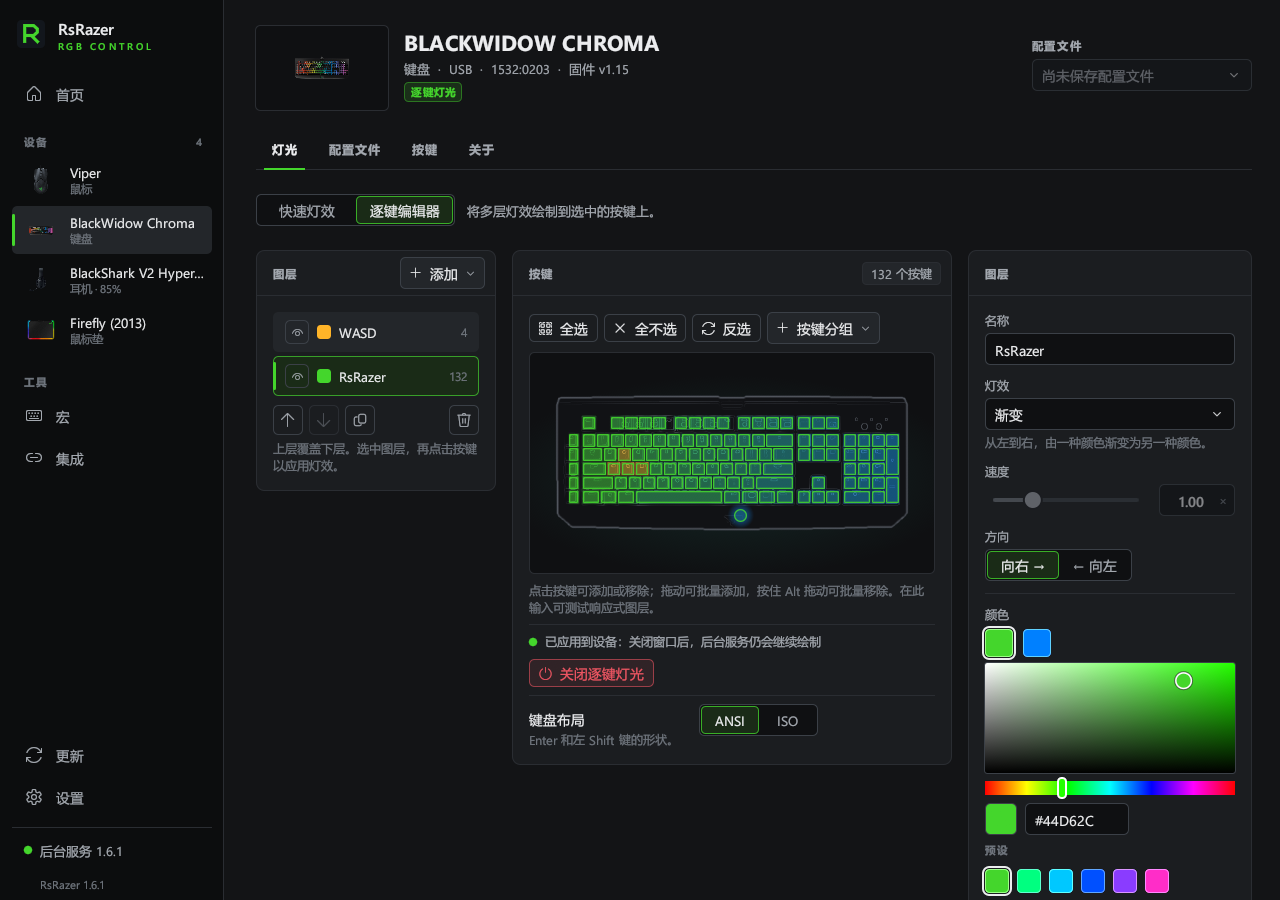
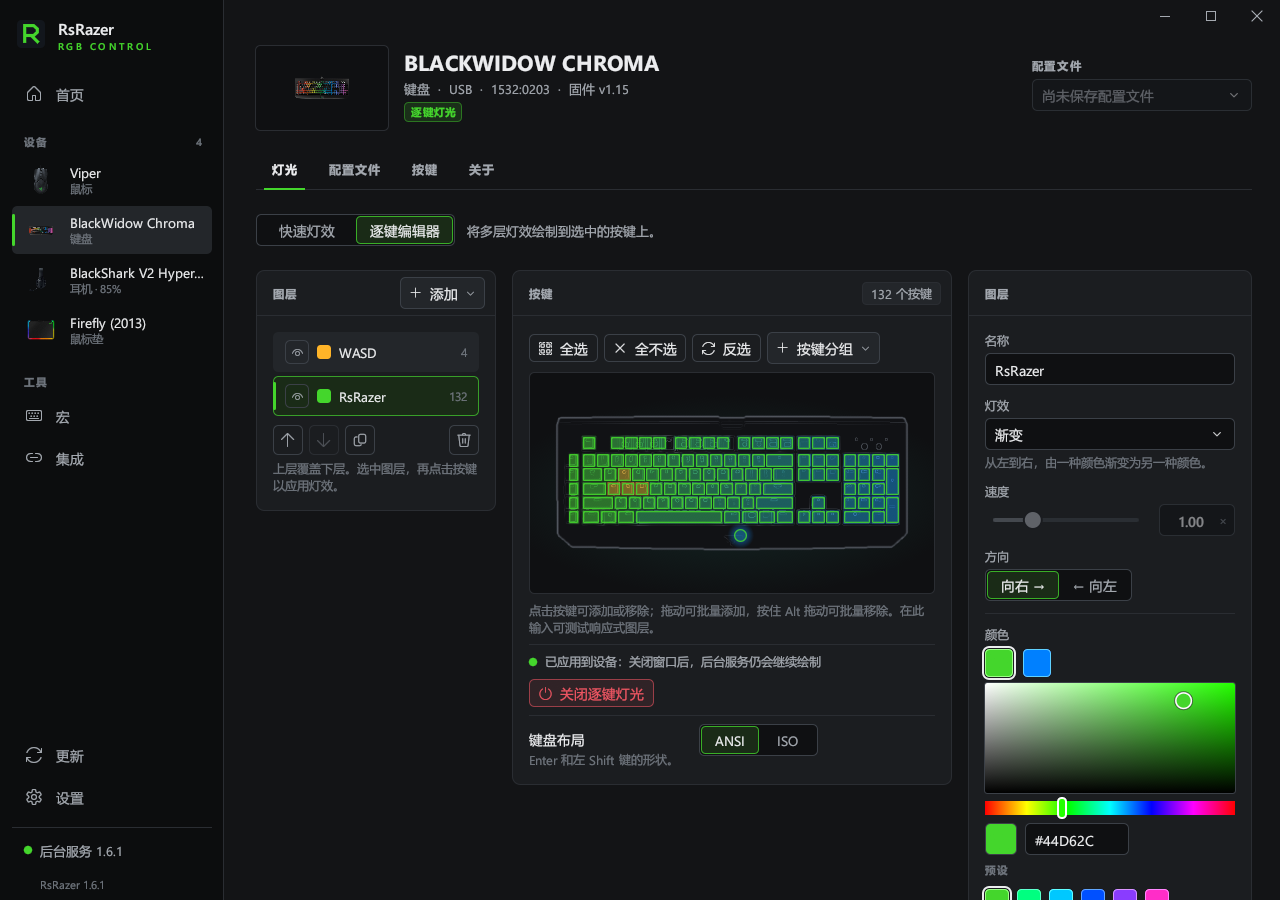
Integrate window controls into the dark interface

diff --git a/studio/core/src/window.rs b/studio/core/src/window.rs
@@ -1,0 +1,82 @@
+//! Native dragging and edge resizing for the integrated window controls.
+
+use crate::{chrome, theme::BORDER};
+use raw_window_handle::{HasWindowHandle, RawWindowHandle};
+use windows_sys::Win32::{
+    Foundation::{HWND, LPARAM, LRESULT, POINT, RECT, WPARAM},
+    Graphics::{Dwm::{DwmSetWindowAttribute, DWMWA_BORDER_COLOR, DWMWA_USE_IMMERSIVE_DARK_MODE, DWMWA_WINDOW_CORNER_PREFERENCE, DWMWCP_ROUND}, Gdi::ScreenToClient},
+    UI::{HiDpi::GetDpiForWindow, Shell::{DefSubclassProc, RemoveWindowSubclass, SetWindowSubclass}, WindowsAndMessaging::*},
+};
+
+const SUBCLASS: usize = 0x52535A52;
+
+fn hwnd(window: &impl HasWindowHandle) -> Option<HWND> {
+    let handle = window.window_handle().ok()?;
+    let RawWindowHandle::Win32(handle) = handle.as_raw() else { return None };
+    Some(handle.hwnd.get() as HWND)
+}
+
+/// Fall back to a decorated window if subclassing is unavailable.
+pub fn install(window: &impl HasWindowHandle, resizable: bool) -> bool {
+    let Some(hwnd) = hwnd(window) else { return false };
+    let border = u32::from(BORDER.r()) | (u32::from(BORDER.g()) << 8) | (u32::from(BORDER.b()) << 16);
+    // All calls run on the window's owning UI thread; DWM copies these values.
+    unsafe {
+        for (attribute, value) in [(DWMWA_USE_IMMERSIVE_DARK_MODE, 1_u32), (DWMWA_BORDER_COLOR, border), (DWMWA_WINDOW_CORNER_PREFERENCE, DWMWCP_ROUND as u32)] {
+            DwmSetWindowAttribute(hwnd, attribute as u32, (&value as *const u32).cast(), size_of::<u32>() as u32);
+        }
+        let scale = GetDpiForWindow(hwnd).max(96) as f32 / 96.0;
+        SetWindowSubclass(hwnd, Some(window_proc), SUBCLASS, data(scale, resizable)) != 0
+    }
+}
+
+/// Keep native hit testing aligned with both monitor DPI and egui zoom.
+pub fn sync(window: &impl HasWindowHandle, scale: f32, resizable: bool) {
+    if let Some(hwnd) = hwnd(window) {
+        unsafe { SetWindowSubclass(hwnd, Some(window_proc), SUBCLASS, data(scale, resizable)); }
+    }
+}
+
+fn data(scale: f32, resizable: bool) -> usize {
+    (((scale.clamp(0.25, 16.0) * 1024.0).round() as usize) << 1) | usize::from(resizable)
+}
+
+unsafe extern "system" fn window_proc(hwnd: HWND, message: u32, wparam: WPARAM, lparam: LPARAM, id: usize, data: usize) -> LRESULT {
+    if message == WM_NCDESTROY {
+        RemoveWindowSubclass(hwnd, Some(window_proc), id);
+    } else if message == WM_NCHITTEST {
+        // LPARAM coordinates are signed, including monitors left/above the primary.
+        let mut point = POINT { x: lparam as i16 as i32, y: (lparam >> 16) as i16 as i32 };
+        let mut rect: RECT = std::mem::zeroed();
+        if ScreenToClient(hwnd, &mut point) != 0 && GetClientRect(hwnd, &mut rect) != 0 {
+            let scale = (data >> 1) as f32 / 1024.0;
+            let resizable = data & 1 != 0;
+            let edge = (6.0 * scale).round() as i32;
+            if resizable && IsZoomed(hwnd) == 0 {
+                let left = point.x < edge;
+                let right = point.x >= rect.right - edge;
+                let top = point.y < edge;
+                let bottom = point.y >= rect.bottom - edge;
+                let hit = match (left, right, top, bottom) {
+                    (true, _, true, _) => HTTOPLEFT,
+                    (_, true, true, _) => HTTOPRIGHT,
+                    (true, _, _, true) => HTBOTTOMLEFT,
+                    (_, true, _, true) => HTBOTTOMRIGHT,
+                    (true, _, _, _) => HTLEFT,
+                    (_, true, _, _) => HTRIGHT,
+                    (_, _, true, _) => HTTOP,
+                    (_, _, _, true) => HTBOTTOM,
+                    _ => HTCLIENT,
+                };
+                if hit != HTCLIENT { return hit as LRESULT; }
+            }
+            let buttons = chrome::BUTTON_WIDTH * if resizable { 3.0 } else { 2.0 };
+            if point.y >= 0 && point.y < (chrome::HEIGHT * scale) as i32 && point.x < rect.right - (buttons * scale) as i32 {
+                return HTCAPTION as LRESULT;
+            }
+            // The buttons are client controls, even where the old caption was.
+            return HTCLIENT as LRESULT;
+        }
+    }
+    DefSubclassProc(hwnd, message, wparam, lparam)
+}

diff --git a/studio/core/src/chrome.rs b/studio/core/src/chrome.rs
@@ -1,0 +1,62 @@
+//! Window controls drawn directly over the page, without a separate title bar.
+
+use crate::{t, theme};
+use egui::{pos2, vec2, Color32, Rect, Sense, Stroke, StrokeKind, ViewportCommand};
+
+pub const HEIGHT: f32 = 32.0;
+pub const BUTTON_WIDTH: f32 = 46.0;
+
+pub fn show(ctx: &egui::Context, resizable: bool, can_close: bool) {
+    let maximized = ctx.input(|i| i.viewport().maximized.unwrap_or(false));
+    let width = BUTTON_WIDTH * if resizable { 3.0 } else { 2.0 };
+    let screen = ctx.screen_rect();
+    egui::Area::new(egui::Id::new("window-controls"))
+        .order(egui::Order::Foreground)
+        .fixed_pos(pos2(screen.right() - width, screen.top()))
+        .default_size(vec2(width, HEIGHT))
+        .constrain(false)
+        .movable(false)
+        .show(ctx, |ui| {
+            ui.spacing_mut().item_spacing = vec2(0.0, 0.0);
+            ui.horizontal(|ui| {
+                if control(ui, t("Minimize"), false, true, |painter, rect, stroke| {
+                    painter.line_segment([pos2(rect.left(), rect.center().y), pos2(rect.right(), rect.center().y)], stroke);
+                }) {
+                    ctx.send_viewport_cmd(ViewportCommand::Minimized(true));
+                }
+                if resizable && control(ui, if maximized { t("Restore") } else { t("Maximize") }, false, true, |painter, rect, stroke| {
+                    if maximized {
+                        let back = rect.translate(vec2(2.0, -2.0)).shrink(1.0);
+                        painter.line_segment([back.left_top(), back.right_top()], stroke);
+                        painter.line_segment([back.right_top(), back.right_bottom()], stroke);
+                        painter.rect_stroke(rect.translate(vec2(-1.0, 1.0)).shrink(1.0), 0, stroke, StrokeKind::Inside);
+                    } else {
+                        painter.rect_stroke(rect, 0, stroke, StrokeKind::Inside);
+                    }
+                }) {
+                    ctx.send_viewport_cmd(ViewportCommand::Maximized(!maximized));
+                }
+                if control(ui, t("Close"), true, can_close, |painter, rect, stroke| {
+                    painter.line_segment([rect.left_top(), rect.right_bottom()], stroke);
+                    painter.line_segment([rect.right_top(), rect.left_bottom()], stroke);
+                }) {
+                    // Use the normal close request so close-to-tray and the
+                    // installer's in-progress guard keep working.
+                    ctx.send_viewport_cmd(ViewportCommand::Close);
+                }
+            });
+        });
+}
+
+fn control(ui: &mut egui::Ui, label: &str, close: bool, enabled: bool, draw: impl FnOnce(&egui::Painter, Rect, Stroke)) -> bool {
+    ui.add_enabled_ui(enabled, |ui| {
+        let (rect, response) = ui.allocate_exact_size(vec2(BUTTON_WIDTH, HEIGHT), Sense::click());
+        response.widget_info(|| egui::WidgetInfo::labeled(egui::WidgetType::Button, enabled, label));
+        if response.hovered() || response.has_focus() {
+            ui.painter().rect_filled(rect, 0, if close { Color32::from_rgb(0xC4, 0x2B, 0x1C) } else { theme::SURFACE_HOVER });
+        }
+        let color = if !enabled { theme::TEXT_FAINT } else if response.hovered() { theme::TEXT } else { theme::TEXT_DIM };
+        draw(ui.painter(), Rect::from_center_size(rect.center(), vec2(10.0, 10.0)), Stroke::new(1.0, color));
+        response.on_hover_text(label).clicked()
+    }).inner
+}

diff --git a/studio/setup/src/ui.rs b/studio/setup/src/ui.rs
@@ -53,12 +53,14 @@ struct Setup {
     /// For checking the design: `OPENRAZER_SETUP_CAPTURE=path.png` saves a
     /// screenshot of the first page and exits.
     capture: Option<(PathBuf, u32)>,
+    custom_frame: bool,
 }
 
 pub fn run(args: Args) -> eframe::Result<()> {
     let options = eframe::NativeOptions {
         viewport: egui::ViewportBuilder::default()
             .with_title(t("RsRazer Setup"))
+            .with_decorations(!cfg!(windows))
             .with_inner_size([720.0, 560.0])
             .with_resizable(false)
             .with_maximize_button(false)
@@ -66,8 +68,17 @@ pub fn run(args: Args) -> eframe::Result<()> {
         ..Default::default()
     };
     eframe::run_native("RsRazer Setup", options, Box::new(move |cc| {
+        #[cfg(not(windows))]
+        let custom_frame = false;
+        #[cfg(windows)]
+        let custom_frame = rsrazer_core::window::install(cc, false);
+        if !custom_frame { cc.egui_ctx.send_viewport_cmd(egui::ViewportCommand::Decorations(true)); }
         theme::apply(&cc.egui_ctx);
-        let installed = args.dir.clone().filter(|_| args.from_temp).map(|dir| Installed { version: install::Manifest::read(&dir).map(|m| m.version).unwrap_or_default(), dir }).or_else(install::installed);
+        // Documentation captures use their explicit demo directory, not the
+        // current user's installation from the registry.
+        let installed = if std::env::var_os("OPENRAZER_SETUP_CAPTURE").is_some() { None } else {
+            args.dir.clone().filter(|_| args.from_temp).map(|dir| Installed { version: install::Manifest::read(&dir).map(|m| m.version).unwrap_or_default(), dir }).or_else(install::installed)
+        };
         let dir = installed.as_ref().map(|i| i.dir.clone()).or(args.dir.clone()).unwrap_or_else(rsrazer_core::paths::default_install_dir);
         let saved = installed.as_ref().and_then(|i| install::Manifest::read(&i.dir)).map(|m| m.options);
         let updating = args.action == Some(Action::Update) && installed.is_some();
@@ -86,6 +97,7 @@ pub fn run(args: Args) -> eframe::Result<()> {
             shared: Default::default(),
             from_temp: args.from_temp,
             capture: std::env::var_os("OPENRAZER_SETUP_CAPTURE").map(|p| (PathBuf::from(p), 0)),
+            custom_frame,
         };
         match args.action {
             Some(Action::Uninstall) if setup.installed.is_some() => setup.page = Page::ConfirmRemoval,
@@ -206,6 +218,11 @@ impl eframe::App for Setup {
                 ui.add_space(12.0);
             });
         });
+        if self.custom_frame {
+            #[cfg(windows)]
+            rsrazer_core::window::sync(_frame, ctx.pixels_per_point(), false);
+            rsrazer_core::chrome::show(ctx, false, !matches!(self.page, Page::Working(_)));
+        }
     }
 }
 

diff --git a/studio/app/src/ui/app.rs b/studio/app/src/ui/app.rs
@@ -95,6 +95,7 @@ pub struct App {
     /// eframe shows the window after its first frame whatever the viewport
     /// asked for, so a background start hides it again for a few frames.
     hide_frames: u8,
+    custom_frame: bool,
 }
 
 /// For checking the design: `OPENRAZER_STUDIO_CAPTURE=path.png` saves one
@@ -119,6 +120,11 @@ impl App {
     }
 
     pub fn new(cc: &eframe::CreationContext<'_>, background: bool) -> App {
+        #[cfg(not(windows))]
+        let custom_frame = false;
+        #[cfg(windows)]
+        let custom_frame = rsrazer_core::window::install(cc, true);
+        if !custom_frame { cc.egui_ctx.send_viewport_cmd(egui::ViewportCommand::Decorations(true)); }
         let settings = Settings::load();
         rsrazer_core::i18n::set(settings.language);
         theme::apply(&cc.egui_ctx);
@@ -191,6 +197,7 @@ impl App {
             started: Instant::now(),
             tray_ok,
             hide_frames: if background && tray_ok { 4 } else { 0 },
+            custom_frame,
             capture,
             macros_opened: None,
         }
@@ -294,12 +301,17 @@ impl eframe::App for App {
             .show_separator_line(true)
             .frame(Frame::new().fill(NAV).inner_margin(Margin { left: 12, right: 12, top: 18, bottom: 14 }))
             .show(ctx, |ui| self.nav(ui, &snap));
-        egui::CentralPanel::default().frame(Frame::new().fill(theme::BG).inner_margin(Margin { left: 32, right: 28, top: 20, bottom: 0 })).show(ctx, |ui| {
+        egui::CentralPanel::default().frame(Frame::new().fill(theme::BG).inner_margin(Margin { left: 32, right: 28, top: if self.custom_frame { 40 } else { 20 }, bottom: 0 })).show(ctx, |ui| {
             ui.set_max_width(ui.available_width().min(1480.0));
             self.page(ui, &snap)
         });
 
         self.toast_area(ctx, &snap);
+        if self.custom_frame {
+            #[cfg(windows)]
+            rsrazer_core::window::sync(_frame, ctx.pixels_per_point(), true);
+            rsrazer_core::chrome::show(ctx, true, true);
+        }
         self.capture(ctx, &snap);
     }
 

diff --git a/studio/core/src/ru.rs b/studio/core/src/ru.rs
@@ -366,6 +366,9 @@ pub const RU: &[(&str, &str)] = &[
     ("The key will do nothing at all: handy for a key that gets in the way.", "Клавиша не будет делать ничего — удобно, если она мешает."),
     ("Save to library", "Сохранить в библиотеку"),
     ("Close", "Закрыть"),
+    ("Minimize", "Свернуть"),
+    ("Maximize", "Развернуть"),
+    ("Restore", "Восстановить"),
     ("“{}” saved to the library", "«{}» сохранён в библиотеку"),
     ("None of the devices here has macro keys the port can handle. Macros made in the library can be put on a keyboard's macro keys once one is plugged in.", "Ни у одного подключённого устройства нет поддерживаемых макроклавиш. Макросы из библиотеки можно будет назначить, когда подключите такую клавиатуру."),
     ("Mouse buttons cannot be reassigned yet.", "Кнопки мыши пока переназначать нельзя."),

diff --git a/studio/core/src/zh_cn.rs b/studio/core/src/zh_cn.rs
@@ -366,6 +366,9 @@ pub const ZH_CN: &[(&str, &str)] = &[
     ("The key will do nothing at all: handy for a key that gets in the way.", "按键将不执行任何操作，适合禁用容易误触的按键。"),
     ("Save to library", "保存到宏库"),
     ("Close", "关闭"),
+    ("Minimize", "最小化"),
+    ("Maximize", "最大化"),
+    ("Restore", "还原"),
     ("“{}” saved to the library", "已将“{}”保存到宏库"),
     ("None of the devices here has macro keys the port can handle. Macros made in the library can be put on a keyboard's macro keys once one is plugged in.", "当前设备均没有本程序可控制的宏按键。连接支持的键盘后，即可将宏库中的宏分配给其宏按键。"),
     ("Mouse buttons cannot be reassigned yet.", "暂不支持重新分配鼠标按键。"),

diff --git a/studio/app/src/main.rs b/studio/app/src/main.rs
@@ -60,6 +60,7 @@ fn main() -> eframe::Result<()> {
     let options = eframe::NativeOptions {
         viewport: egui::ViewportBuilder::default()
             .with_title(shell::WINDOW_TITLE)
+            .with_decorations(!cfg!(windows))
             .with_inner_size(size)
             .with_min_inner_size([1000.0, 660.0])
             .with_visible(!background)

diff --git a/studio/core/src/theme.rs b/studio/core/src/theme.rs
@@ -235,6 +235,7 @@ pub mod icon {
 }
 
 pub fn apply(ctx: &egui::Context) {
+    ctx.send_viewport_cmd(egui::ViewportCommand::SetTheme(egui::SystemTheme::Dark));
     install_fonts(ctx);
     let mut style = (*ctx.style()).clone();
     style.text_styles = [

diff --git a/studio/core/src/lib.rs b/studio/core/src/lib.rs
@@ -11,6 +11,9 @@ pub mod process;
 pub mod rpc;
 pub mod theme;
 pub mod widgets;
+pub mod chrome;
+#[cfg(windows)]
+pub mod window;
 
 pub use i18n::{t, tf};
 #[path = "../../../assets/branding.rs"]

diff --git a/CHANGELOG.md b/CHANGELOG.md
@@ -14,6 +14,8 @@ uses [semantic versioning](https://semver.org/).
 
 ### Changed
 
+- Removed the separate system title bar from Studio and its installer. Window
+  controls blend into the dark interface, with native dragging and edge resizing.
 - Renamed the application and repository to RsRazer. UI links and update downloads
   now point to `imacte/RsRazer`; existing configuration and startup entries remain compatible.
 - Replaced the application, tray and installer icons with the shared RsRazer mark,
